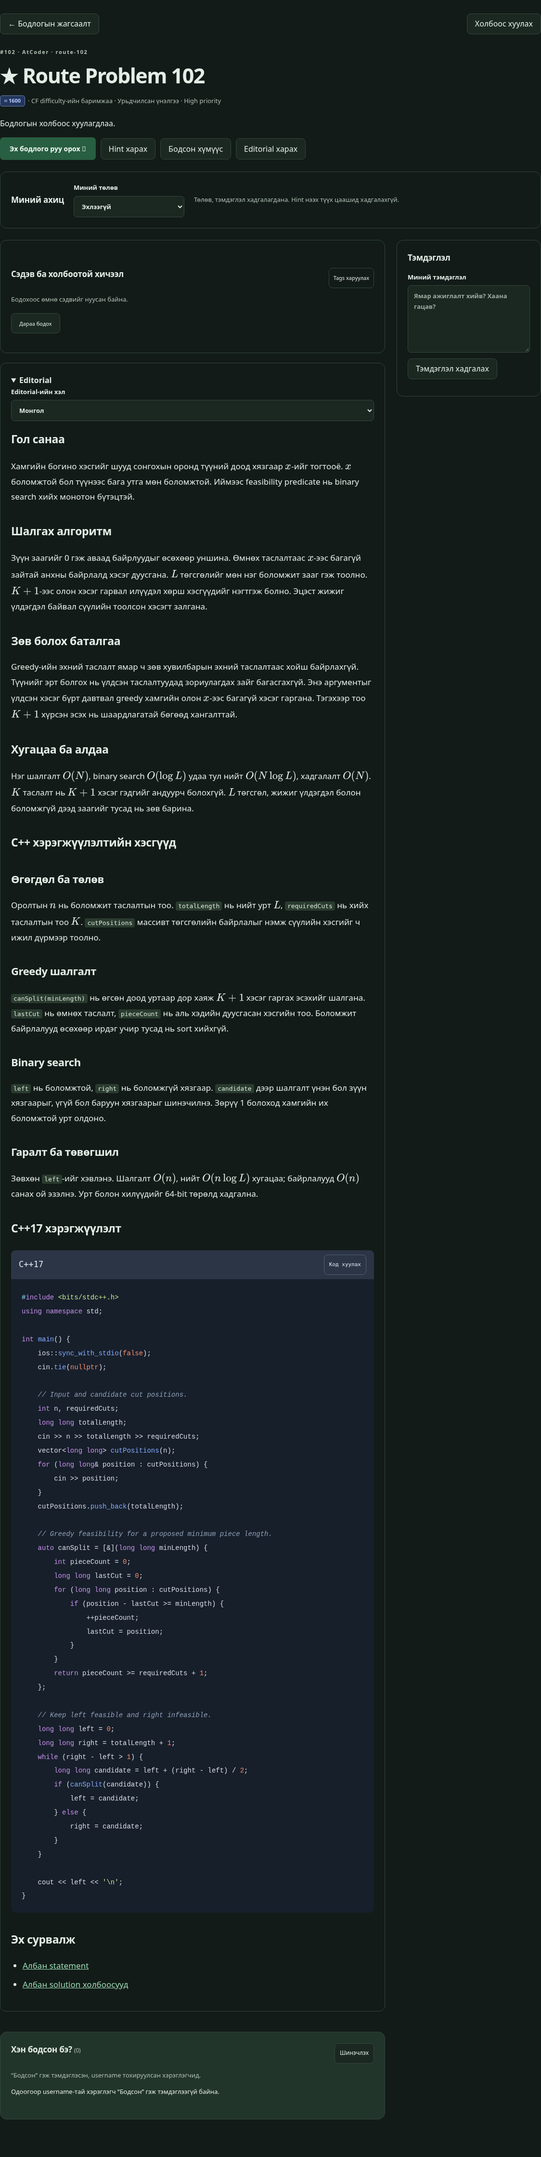
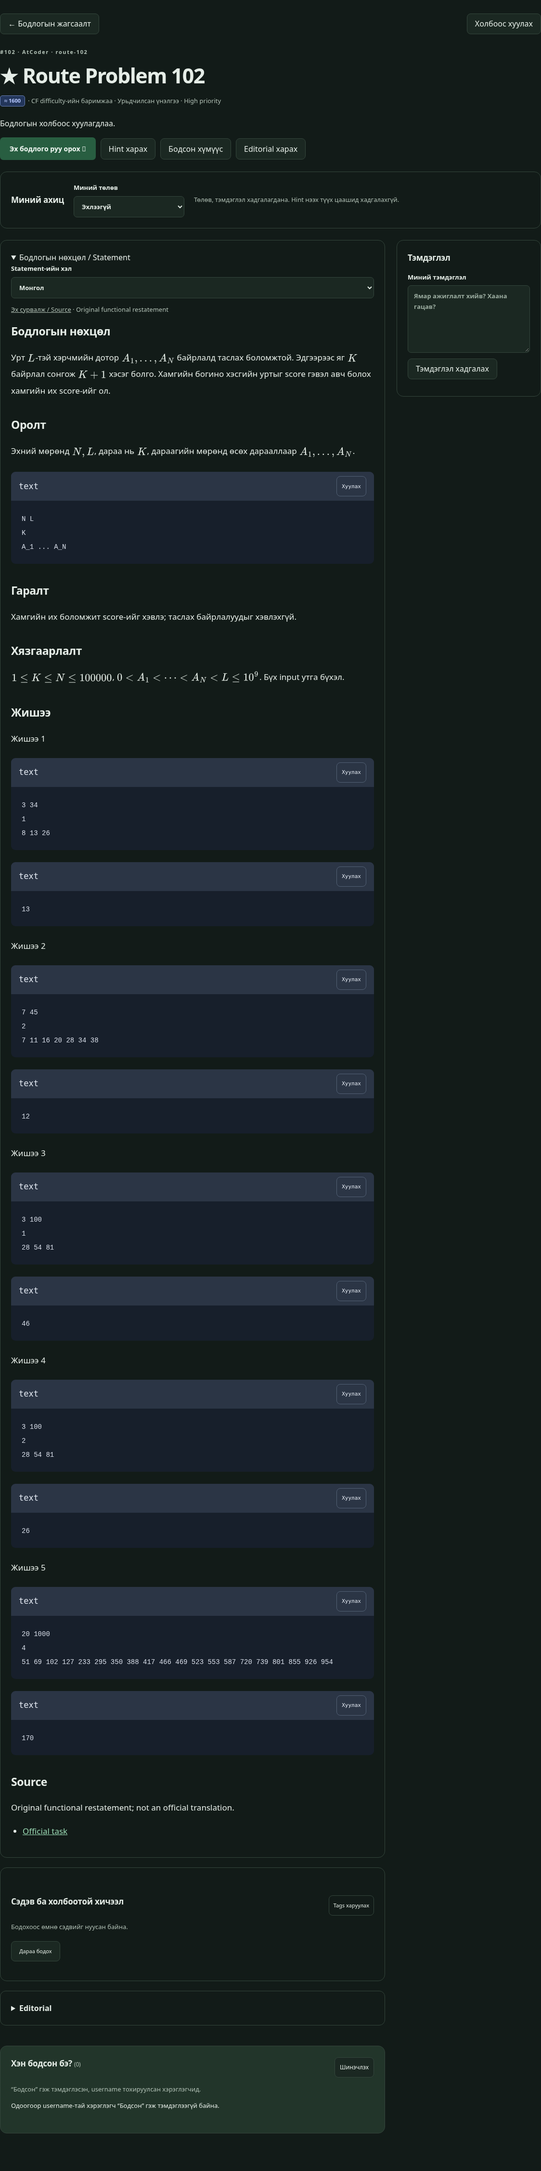
Keep package 4 frontend compatible with installed backend before rollout

diff --git a/admin.js b/admin.js
@@ -1,3 +1,4 @@
+import {problemBackend,prepareProblemSave} from './problem-backend.js?v=49';
 import {assertProblemStatementReady} from './problem-statement-policy.js?v=48';
 import {setupProblemStatementEditor} from './problem-statement.js?v=48';
 import {problemUrlIdentity} from './problem-url.js?v=48';
@@ -9,13 +10,13 @@ import {setAdminRoute} from './navigation.js?v=48';
 import {rpc,accountError} from './accounts.js?v=48';
 import {validateProblem,parseProblemImport,validateSource,getSources} from './problem-store.js?v=48';
 export function setupAdmin(ctx) {
- const $=id=>document.getElementById(id);let rows=[],selected=null,admin=false,accountId=null,token=0,busy=false,pendingImport=[],grantTarget=null,fileToken=0; 
+ const capabilities=problemBackend();const $=id=>document.getElementById(id);let rows=[],selected=null,admin=false,accountId=null,token=0,busy=false,pendingImport=[],grantTarget=null,fileToken=0;
  const provenance=document.createElement('fieldset');provenance.className='admin-rating-provenance';const legend=document.createElement('legend');legend.textContent='Rating-ийн эх сурвалж ба үндэслэл';provenance.append(legend);for(const[id,label,type,max]of[['admin-rating-basis','Алгоритм, ажиглалт, хэрэгжүүлэлтийн хүндрэлээр тайлбарласан үндэслэл','text',500],['admin-rating-source','Тулгасан эх сурвалжийн HTTPS URL','url',500],['admin-rating-date','Тулгасан / баримжаалсан огноо','date',10],['admin-rating-confidence','Баримжааны итгэлцэл (rough гэх мэт)','text',500]]){const l=document.createElement('label');l.textContent=label;const input=document.createElement('input');input.id=id;input.type=type;input.maxLength=max;l.append(input);provenance.append(l);}$('admin-rating-kind').closest('label').after(provenance);
- const editorialRoot=document.createElement('div');editorialRoot.id='admin-editorial-document';$('admin-editorial').closest('label').after(editorialRoot);const editorialEditor=setupProblemEditorialEditor(editorialRoot,{locked:()=>busy||!admin,user:ctx.user,client:ctx.client,problems:()=>rows,progress:()=>ctx.progress?.()||{},requireBackend:()=>requireEditorialBackend()});
- const statementRoot=document.createElement('div');statementRoot.id='admin-statement-document';editorialRoot.before(statementRoot);const statementEditor=setupProblemStatementEditor(statementRoot,{locked:()=>busy||!admin,user:ctx.user,client:ctx.client,problems:()=>rows,progress:()=>ctx.progress?.()||{},requireBackend:()=>requireStatementBackend()});
- async function requireStatementBackend(){try{await rpc(ctx.client(),'get_problem_statement',{p_problem_id:selected?.id||'__package4_capability_probe__'});}catch{throw Error('Statement backend шинэчлэл идэвхжээгүй. Өөрчлөлт хадгалагдаагүй.');}}
- async function requireEditorialBackend(){try{await rpc(ctx.client(),'get_problem_editorial',{p_problem_id:selected?.id||'__package4_capability_probe__'});}catch{throw Error('Багц 4-ийн бодлогын backend шинэчлэл идэвхжээгүй байна. Засвар хадгалагдаагүй; админдаа мэдэгдээрэй.');}}
- function setBusy(value){busy=value;for(const el of $('admin-form').querySelectorAll('input,select,textarea,button'))el.disabled=value;$('admin-choose').disabled=value;$('admin-new').disabled=value;$('admin-reload').disabled=value;for(const id of ['admin-source-name','admin-source-add','admin-import-file','admin-grant-username','admin-grant-find','admin-grant-submit'])$(id).disabled=value;$('admin-import-submit').disabled=value||!pendingImport.length;}
+ const editorialRoot=document.createElement('div');editorialRoot.id='admin-editorial-document';$('admin-editorial').closest('label').after(editorialRoot);const editorialEditor=setupProblemEditorialEditor(editorialRoot,{locked:()=>busy||!admin||!capabilities.editorial,user:ctx.user,client:ctx.client,problems:()=>rows,progress:()=>ctx.progress?.()||{},requireBackend:()=>requireEditorialBackend()});
+ const statementRoot=document.createElement('div');statementRoot.id='admin-statement-document';editorialRoot.before(statementRoot);const statementEditor=setupProblemStatementEditor(statementRoot,{locked:()=>busy||!admin||!capabilities.statement,user:ctx.user,client:ctx.client,problems:()=>rows,progress:()=>ctx.progress?.()||{},requireBackend:()=>requireStatementBackend()});
+ async function requireStatementBackend(){if(!capabilities.statement)throw Error('Statement backend шинэчлэл идэвхжээгүй.');try{await rpc(ctx.client(),'get_problem_statement',{p_problem_id:selected?.id||'__package4_capability_probe__'});}catch{throw Error('Statement backend шинэчлэл идэвхжээгүй. Өөрчлөлт хадгалагдаагүй.');}}
+ async function requireEditorialBackend(){if(!capabilities.editorial)throw Error('Editorial backend шинэчлэл идэвхжээгүй.');try{await rpc(ctx.client(),'get_problem_editorial',{p_problem_id:selected?.id||'__package4_capability_probe__'});}catch{throw Error('Багц 4-ийн бодлогын backend шинэчлэл идэвхжээгүй байна. Засвар хадгалагдаагүй; админдаа мэдэгдээрэй.');}}
+ function setBusy(value){busy=value;for(const el of $('admin-form').querySelectorAll('input,select,textarea,button'))el.disabled=value;$('admin-choose').disabled=value;$('admin-new').disabled=value;$('admin-reload').disabled=value;for(const id of ['admin-source-name','admin-source-add','admin-import-file','admin-grant-username','admin-grant-find','admin-grant-submit'])$(id).disabled=value;$('admin-import-submit').disabled=value||!pendingImport.length||!capabilities.bulkImport;applyCapabilities();}
  function refreshSources(chosen=$('admin-source').value){$('admin-source').replaceChildren();for(const name of getSources(rows,[...ctx.sources(),...(chosen?[chosen]:[])])){const option=document.createElement('option');option.value=name;option.textContent=name;$('admin-source').append(option);}$('admin-source').value=[...$('admin-source').options].some(o=>o.value===chosen)?chosen:'Codeforces';}
  function renderChoices(){const query=$('admin-search').value.trim().toLowerCase();$('admin-choose').replaceChildren();const option=(value,label)=>{const n=document.createElement('option');n.value=value;n.textContent=label;$('admin-choose').append(n);};option('','Шинэ бодлого нэмэх');
   for(const p of rows.filter(p=>(!p.archived||$('admin-show-archived').checked||p.number===selected?.number)&&([p.title,p.number,'#'+p.number,'#'+String(p.number).padStart(3,'0'),...p.tags].join(' ').toLowerCase().includes(query)||p.number===selected?.number)))option(String(p.number),'#'+p.number+' · '+p.title+(p.archived?' · Хассан':''));$('admin-choose').value=selected?String(selected.number):'';
@@ -23,7 +24,7 @@ export function setupAdmin(ctx) {
  function edit(p){if((editorialEditor.dirty()||statementEditor.dirty())&&!confirm('Хадгалаагүй statement/editorial засварыг орхих уу?')){renderChoices();return false;}selected=p;$('admin-form').reset();$('admin-title').value=p?.title||'';refreshSources(p?.source||'Codeforces');$('admin-ref').value=p?.ref||'';$('admin-url').value=p?.url||'';$('admin-rating').value=p?.rating||1400;$('admin-rating-kind').value=p?.ratingKind||'official';$('admin-rating-basis').value=p?.ratingBasis||'';$('admin-rating-source').value=p?.ratingSource||'';$('admin-rating-confidence').value=p?.ratingConfidence||'rough';$('admin-rating-date').value=p?(p.ratingKind==='estimated'?p.ratingEstimatedAt:p.ratingVerifiedAt)||'':new Date().toISOString().slice(0,10);$('admin-level').value=p?.level||'Practice';$('admin-priority').value=priorityLevel(p);$('admin-priority-reason').value=p?.priorityReason||'';$('admin-tags').value=p?.tags?.join(', ')||'';$('admin-lesson').value=p?.lesson||'';$('admin-editorial').value=p?.editorialUrl||'';
   for(let i=0;i<3;i++){ $('admin-hint-mn-'+i).value=p?.hints?.[i]||'';$('admin-hint-en-'+i).value=p?.hintsEn?.[i]||'';}
   $('admin-problem-id').textContent=p?'Бодлогын ID: #'+p.number+' · '+(p.archived?'Хассан':'Идэвхтэй'):'Шинэ бодлогын ID хадгалах үед автоматаар олгогдоно.';
-  $('admin-archive').hidden=!p;$('admin-archive').textContent=p?.archived?'Бодлогыг сэргээх':'Бодлогыг хасах';$('admin-save').textContent=p?'Өөрчлөлт хадгалах':'Бодлого нэмэх';renderChoices();void editorialEditor.edit(p);void statementEditor.edit(p);
+  $('admin-archive').hidden=!p;$('admin-archive').textContent=p?.archived?'Бодлогыг сэргээх':'Бодлогыг хасах';$('admin-save').textContent=p?'Өөрчлөлт хадгалах':'Бодлого нэмэх';renderChoices();if(capabilities.editorial)void editorialEditor.edit(p);if(capabilities.statement)void statementEditor.edit(p);applyCapabilities();
  }
  async function load(){if(!admin||busy)return;const request=++token,uid=ctx.user()?.id;$('admin-message').textContent='Бодлогуудыг ачаалж байна…';
   try{const list=await rpc(ctx.client(),'get_admin_catalog');if(request!==token||uid!==ctx.user()?.id)return;rows=list||[];const next=selected?rows.find(p=>p.number===selected.number)||null:null;edit(next);$('admin-message').textContent=rows.length+' бодлого · Хассан бодлогыг сэргээж болно.';}
@@ -33,9 +34,9 @@ export function setupAdmin(ctx) {
   try{const allowed=await rpc(ctx.client(),'is_admin');if(request!==token||uid!==ctx.user()?.id)return;admin=allowed===true;setAdminRoute(admin);if(admin){edit(null);void load();void loadAdmins();}}
   catch{ /* No client-side email or metadata fallback can grant admin rights. */ }
  }
- function input(){const editorial=editorialEditor.collect(),statement=statementEditor.collect();const payload=validateProblem({...selected,ratingBasis:$('admin-rating-basis').value.trim(),...($('admin-rating-source').value.trim()?{ratingSource:$('admin-rating-source').value.trim()}:{}),...($('admin-rating-kind').value==='estimated'?{ratingConfidence:$('admin-rating-confidence').value.trim(),ratingEstimatedAt:$('admin-rating-date').value}:{ratingVerifiedAt:$('admin-rating-date').value}),title:$('admin-title').value,source:$('admin-source').value,ref:$('admin-ref').value,url:$('admin-url').value.trim(),rating:$('admin-rating').value,ratingKind:$('admin-rating-kind').value,level:$('admin-level').value,priorityLevel:$('admin-priority').value,priority:$('admin-priority').value==='high',priorityReason:$('admin-priority-reason').value.trim(),tags:$('admin-tags').value.split(','),hints:Array.from({length:3},(_,i)=>$('admin-hint-mn-'+i).value.trim()).filter((v,_,all)=>all.some(Boolean)),hintsEn:Array.from({length:3},(_,i)=>$('admin-hint-en-'+i).value.trim()).filter((v,_,all)=>all.some(Boolean)),...(editorial!==undefined?{editorial}:{}),...(statement!==undefined?{statement,...(statement?{statementProvenance:statementEditor.provenance()}:{} )}:{}),lesson:$('admin-lesson').value,editorialUrl:$('admin-editorial').value.trim()});if(!selected){assertNewProblemRatingReady(payload);assertProblemStatementReady(payload);}if(!selected||priorityLevel(payload)==='high')assertProblemContentReady(payload);return payload;}
+ function input(){const editorial=capabilities.editorial?editorialEditor.collect():undefined,statement=capabilities.statement?statementEditor.collect():undefined;const payload=validateProblem({...selected,ratingBasis:$('admin-rating-basis').value.trim(),...($('admin-rating-source').value.trim()?{ratingSource:$('admin-rating-source').value.trim()}:{}),...($('admin-rating-kind').value==='estimated'?{ratingConfidence:$('admin-rating-confidence').value.trim(),ratingEstimatedAt:$('admin-rating-date').value}:{ratingVerifiedAt:$('admin-rating-date').value}),title:$('admin-title').value,source:$('admin-source').value,ref:$('admin-ref').value,url:$('admin-url').value.trim(),rating:$('admin-rating').value,ratingKind:$('admin-rating-kind').value,level:$('admin-level').value,priorityLevel:$('admin-priority').value,priority:$('admin-priority').value==='high',priorityReason:$('admin-priority-reason').value.trim(),tags:$('admin-tags').value.split(','),hints:Array.from({length:3},(_,i)=>$('admin-hint-mn-'+i).value.trim()).filter((v,_,all)=>all.some(Boolean)),hintsEn:Array.from({length:3},(_,i)=>$('admin-hint-en-'+i).value.trim()).filter((v,_,all)=>all.some(Boolean)),...(editorial!==undefined?{editorial}:{}),...(statement!==undefined?{statement,...(statement?{statementProvenance:statementEditor.provenance()}:{} )}:{}),lesson:$('admin-lesson').value,editorialUrl:$('admin-editorial').value.trim()});if(!selected){assertNewProblemRatingReady(payload);assertProblemStatementReady(payload);}if(!selected||priorityLevel(payload)==='high')assertProblemContentReady(payload);return prepareProblemSave(payload,selected,capabilities);}
  $('admin-form').onsubmit=async event=>{event.preventDefault();if(!admin||busy||!$('admin-form').reportValidity())return;const uid=ctx.user()?.id;let payload;try{payload=input();}catch(e){$('admin-message').textContent=e.message;return;}setBusy(true);$('admin-message').textContent='Хадгалж байна…';
-  try{await requireEditorialBackend();await requireStatementBackend();if(uid!==ctx.user()?.id)return;const saved=await rpc(ctx.client(),'admin_save_problem',{p_body:payload,p_number:selected?.number||null,p_revision:selected?.revision||null});if(uid!==ctx.user()?.id)return;editorialEditor.markSaved();statementEditor.markSaved();selected=saved;await ctx.refreshCatalog();setBusy(false);await load();$('admin-message').textContent='#'+saved.number+' хадгалагдлаа.';}
+  try{if(capabilities.editorial)await requireEditorialBackend();if(capabilities.statement)await requireStatementBackend();if(uid!==ctx.user()?.id)return;const saved=await rpc(ctx.client(),'admin_save_problem',{p_body:payload,p_number:selected?.number||null,p_revision:selected?.revision||null});if(uid!==ctx.user()?.id)return;editorialEditor.markSaved();statementEditor.markSaved();selected=saved;await ctx.refreshCatalog();setBusy(false);await load();$('admin-message').textContent='#'+saved.number+' хадгалагдлаа.';}
   catch(e){if(uid===ctx.user()?.id)$('admin-message').textContent=accountError(e);}finally{setBusy(false);}
  };
  $('admin-archive').onclick=async()=>{if(!selected||!admin||busy)return;const p=selected,wasArchived=p.archived,uid=ctx.user()?.id;if(!wasArchived&&!window.confirm('#'+p.number+' · '+p.title+' бодлогыг жагсаалтаас хасах уу? Сэргээж болно; progress хадгалагдана.'))return;setBusy(true);
@@ -43,6 +44,16 @@ export function setupAdmin(ctx) {
   catch(e){if(uid===ctx.user()?.id)$('admin-message').textContent=accountError(e);}finally{setBusy(false);}
  };
  const reasonLabel=document.createElement('label');reasonLabel.textContent='Priority сонголтын үндэслэл';const reason=document.createElement('textarea');reason.id='admin-priority-reason';reason.maxLength=1000;reason.rows=2;reasonLabel.append(reason);$('admin-priority').closest('label').after(reasonLabel);
+ const compatibilityMessage=document.createElement('p');compatibilityMessage.className='muted';compatibilityMessage.id='admin-backend-status';$('admin-form').before(compatibilityMessage);
+ function applyCapabilities(){
+  editorialRoot.hidden=!capabilities.editorial;statementRoot.hidden=!capabilities.statement;provenance.hidden=!capabilities.priority;
+  for(const id of ['admin-priority','admin-priority-reason'])$(id).disabled=busy||!capabilities.priority;
+  $('admin-new').disabled=busy||!capabilities.priority;$('admin-import-file').disabled=busy||!capabilities.bulkImport;
+  if(!capabilities.bulkImport)$('admin-import-submit').disabled=true;
+  compatibilityMessage.hidden=capabilities.statement;
+  compatibilityMessage.textContent=!capabilities.priority?'Одоогийн backend: байгаа бодлогын үндсэн мэдээллийг засаж болно. Шинэ priority, rich content болон batch нэмэлт нь backend шинэчлэлийн дараа идэвхжинэ.':'Rich content / batch нэмэлт нь тохирох backend шинэчлэлийн дараа идэвхжинэ.';
+ }
+ applyCapabilities();
  const chooseProblem=document.createElement('button');chooseProblem.type='button';chooseProblem.textContent='Засах бодлого сонгох…';$('admin-choose').closest('label').hidden=true;$('admin-search').closest('label').hidden=true;$('admin-choose').closest('.admin-picker').append(chooseProblem);
  chooseProblem.onclick=()=>{if(!admin||busy)return;const actor=ctx.user()?.id;openProblemSelection({problems:()=>rows,progress:()=>ctx.progress?.()||{},multiple:false,includeArchived:$('admin-show-archived').checked,valid:()=>admin&&!busy&&actor===ctx.user()?.id,onSelect:items=>{if(items[0])edit(items[0]);}});};
  $('admin-choose').onchange=()=>{edit(rows.find(p=>p.number===Number($('admin-choose').value))||null);$('admin-message').textContent='';};$('admin-new').onclick=()=>{edit(null);$('admin-message').textContent='';};$('admin-reload').onclick=()=>void load();$('admin-search').addEventListener('input',renderChoices);$('admin-show-archived').onchange=renderChoices;
@@ -51,11 +62,11 @@ export function setupAdmin(ctx) {
  $('admin-source-form').onsubmit=async event=>{event.preventDefault();if(!admin||busy||!$('admin-source-form').reportValidity())return;const uid=ctx.user()?.id;let name;try{name=validateSource($('admin-source-name').value);}catch(e){$('admin-source-message').textContent=e.message;return;}setBusy(true);$('admin-source-message').textContent='Хадгалж байна…';try{const saved=await rpc(ctx.client(),'admin_add_source',{p_name:name});if(uid!==ctx.user()?.id)return;await ctx.refreshCatalog();refreshSources(saved);$('admin-source').dispatchEvent(new Event('change'));$('admin-source-name').value='';$('admin-source-message').textContent=saved+' source хадгалагдлаа.';}catch(e){if(uid===ctx.user()?.id)$('admin-source-message').textContent=accountError(e);}finally{setBusy(false);}};
 
  async function loadAdmins(){const uid=ctx.user()?.id;try{const list=await rpc(ctx.client(),'admin_list');if(uid!==ctx.user()?.id||!admin)return;$('admin-list').replaceChildren();for(const p of list||[]){const li=document.createElement('li');li.textContent='@'+p.username+(p.full_name?' · '+p.full_name:'')+(p.is_primary?' · Үндсэн админ':'');$('admin-list').append(li);}}catch(e){if(uid===ctx.user()?.id)$('admin-grant-message').textContent=accountError(e);}}
- $('admin-import-file').onchange=async()=>{const request=++fileToken,uid=ctx.user()?.id;pendingImport=[];$('admin-import-submit').disabled=true;$('admin-import-preview').replaceChildren();$('admin-import-message').textContent='';const file=$('admin-import-file').files[0];if(!file||!admin)return;
+ $('admin-import-file').onchange=async()=>{const request=++fileToken,uid=ctx.user()?.id;pendingImport=[];$('admin-import-submit').disabled=true;$('admin-import-preview').replaceChildren();$('admin-import-message').textContent='';const file=$('admin-import-file').files[0];if(!file||!admin||!capabilities.bulkImport)return;
   try{if(file.size>2097152)throw new Error('JSON файл 2 MB хүртэл байна.');let document;try{document=JSON.parse((await file.text()).replace(/^\uFEFF/,''));}catch{throw new Error('JSON файлын бичлэг буруу байна.');}if(request!==fileToken||uid!==ctx.user()?.id)return;const list=parseProblemImport(document);for(const p of list){assertNewProblemRatingReady(p);assertProblemContentReady(p);assertProblemStatementReady(p);}for(const p of list)if(rows.some(r=>problemUrlIdentity(r.url)===problemUrlIdentity(p.url)||(r.source.toLowerCase()===p.source.toLowerCase()&&r.ref.toLowerCase()===p.ref.toLowerCase())))throw new Error(p.title+': энэ бодлого санд байна (хассан бодлого ч багтана).');pendingImport=list;for(const p of list){const li=window.document.createElement('li');li.textContent=p.title+' · '+p.source+' '+p.ref+' · '+p.rating;$('admin-import-preview').append(li);}$('admin-import-message').textContent=list.length+' бодлого бэлэн. Нэмэх товчийг дарж хадгална.';$('admin-import-submit').disabled=busy;}
   catch(e){if(request===fileToken&&uid===ctx.user()?.id)$('admin-import-message').textContent=e.message;}
  };
- $('admin-import-submit').onclick=async()=>{if(!admin||busy||!pendingImport.length)return;const uid=ctx.user()?.id,payload=pendingImport;setBusy(true);$('admin-import-message').textContent='Нэмж байна…';
+ $('admin-import-submit').onclick=async()=>{if(!admin||busy||!pendingImport.length||!capabilities.bulkImport)return;const uid=ctx.user()?.id,payload=pendingImport;setBusy(true);$('admin-import-message').textContent='Нэмж байна…';
   try{await requireEditorialBackend();await requireStatementBackend();if(uid!==ctx.user()?.id)return;const saved=await rpc(ctx.client(),'admin_import_problems',{p_problems:payload});if(uid!==ctx.user()?.id)return;pendingImport=[];$('admin-import-file').value='';$('admin-import-preview').replaceChildren();await ctx.refreshCatalog();setBusy(false);await load();$('admin-import-message').textContent=saved.length+' бодлого нэмэгдлээ. ID: '+saved.map(p=>'#'+p.number).join(', ');}
   catch(e){if(uid===ctx.user()?.id)$('admin-import-message').textContent=accountError(e);}finally{setBusy(false);}
  };

diff --git a/app.js b/app.js
@@ -1,6 +1,6 @@
 import {createLearningStore} from './learning-store.js?v=23';
-import {setupProblemStatement} from './problem-statement.js?v=48';
-import {setupProblemEditorial} from './problem-editorial.js?v=48';
+import {setupProblemStatement} from './problem-statement.js?v=49';
+import {setupProblemEditorial} from './problem-editorial.js?v=49';
 import {appendHintText} from './hint-content.js?v=48';
 import {canonicalProblemUrl} from './problem-url.js?v=48';
 import {priorityLevel,priorityLabel,isHighPriority,ratingClass} from './priority.js?v=48';
@@ -10,7 +10,7 @@ import {setupGroups} from './groups.js?v=20';
 let tutorialUI, learningUI=null,hintRenderTurn=0,problemEditorialUI,problemStatementUI,learningProgressStore;
 import {CURRENT_EMPTY,cleanProgress,parseCurrentBackup,progressRows} from './progress.js?v=48';
 import {getSolvers} from './community.js?v=6';
-import {setupAdmin} from './admin.js?v=48';
+import {setupAdmin} from './admin.js?v=49';
 import {parseCatalog,hintTexts,getSources} from './problem-store.js?v=48';
 import {rpc} from './accounts.js?v=48';
 import {ownProfile,saveOwnProfile,avatarUrl,accountError} from './accounts.js?v=48';
@@ -120,7 +120,7 @@ function syncProblemRoute(){
 }
 function showProblemPage(p) {$('problem-share').disabled=false;$('problem-back').textContent=history.state?.erdeneProblemOrigin?.hash&&history.state.erdeneProblemOrigin.hash!=='#library'?'← Буцах':'← Бодлогын жагсаалт';const changed=selectedProblem?.id!==p.id;selectedProblem=p;if(changed){detailTagsShown=false;resetHintView();}$('problem-detail-body').hidden=false;$('problem-route-state').textContent='';$('problem-retry').hidden=true;$('detail-title').textContent=(isHighPriority(p)?'★ ':'')+p.title;$('detail-source').textContent='#'+p.number+' · '+p.source+' · '+p.ref;$('detail-note').textContent=(p.ratingKind==='unrated'?'Үнэлгээгүй':p.ratingKind==='official'?'CF албан rating':'CF difficulty-ийн баримжаа'+(p.ratingConfidence==='rough'?' · Урьдчилсан үнэлгээ':''))+(p.level==='Interactive'?' · Interactive':'')+(p.source==='EGOI'?' · Full task; subtask-аас эхэл':'')+' · '+priorityLabel(p);const detailRating=el('span','rating '+ratingClass(p),ratingLabel(p));$('detail-note').prepend(detailRating,document.createTextNode(' · '));$('problem-link').href=p.url;if(changed)$('notes').value=entry(p.id).notes;$('detail-feedback').textContent='';document.title=p.title+' — Erdene Club';renderDetail();if(changed){void loadSolvers();requestAnimationFrame(()=>$('detail-title').focus({preventScroll:true}));}}
 function renderDetail() {
-  if(!selectedProblem)return;problemEditorialUI?.render(selectedProblem);problemStatementUI?.render(selectedProblem);const p=selectedProblem,e=entry(p.id),tagsVisible=$('show-tags').checked||detailTagsShown||e.status==='solved',learningLinks=$('detail-learning-links');learningLinks.replaceChildren();if(tagsVisible){for(const t of learningUI?.linksForProblem(p)||[]){const a=el('a','',(t.primary?'Үндсэн · ':'')+t.title);a.href='#tutorial/'+t.id;learningLinks.append(a);}}learningUI?.renderProblemLinks(p,learningLinks);const hintCount=hintTexts(p,'mn').length;$('hint-list').closest('.hints').hidden=priorityLevel(p)==='low'||!hintPanelOpen;$('problem-hints-button').hidden=priorityLevel(p)==='low'||!hintCount;$('problem-hints-button').setAttribute('aria-expanded',String(hintPanelOpen));$('problem-editorial-button').hidden=priorityLevel(p)!=='high'&&!p.hasEditorial&&!p.editorial;$('problem-admin-edit').hidden=!problemAdminAllowed;$('hint-language').closest('label').hidden=!hintCount;$('problem-status').value=e.status;$('problem-status').disabled=loading;$('notes').disabled=loading;$('save-note').disabled=loading;const hintTurn=++hintRenderTurn;try{window.MathJax?.typesetClear?.([$ ('hint-list')]);}catch{}const hintBody=el('div','hint-render-body');$('hint-list').replaceChildren(hintBody);
+  if(!selectedProblem)return;problemEditorialUI?.render(selectedProblem);problemStatementUI?.render(selectedProblem);const p=selectedProblem,e=entry(p.id),tagsVisible=$('show-tags').checked||detailTagsShown||e.status==='solved',learningLinks=$('detail-learning-links');learningLinks.replaceChildren();if(tagsVisible){for(const t of learningUI?.linksForProblem(p)||[]){const a=el('a','',(t.primary?'Үндсэн · ':'')+t.title);a.href='#tutorial/'+t.id;learningLinks.append(a);}}learningUI?.renderProblemLinks(p,learningLinks);const hintCount=hintTexts(p,'mn').length;$('hint-list').closest('.hints').hidden=priorityLevel(p)==='low'||!hintPanelOpen;$('problem-hints-button').hidden=priorityLevel(p)==='low'||!hintCount;$('problem-hints-button').setAttribute('aria-expanded',String(hintPanelOpen));$('problem-editorial-button').hidden=!p.hasEditorial&&!p.editorial;$('problem-admin-edit').hidden=!problemAdminAllowed;$('hint-language').closest('label').hidden=!hintCount;$('problem-status').value=e.status;$('problem-status').disabled=loading;$('notes').disabled=loading;$('save-note').disabled=loading;const hintTurn=++hintRenderTurn;try{window.MathJax?.typesetClear?.([$ ('hint-list')]);}catch{}const hintBody=el('div','hint-render-body');$('hint-list').replaceChildren(hintBody);
   hintTexts(p,hintLanguage).slice(0,revealedHintCount).forEach((hint,i)=>{const h=el('div','hint');const text=el('span');appendHintText(text,hint);h.append(el('b','','HINT '+(i+1)),text);hintBody.append(h);});
   const hintsVisible=!hiddenHints.has(p.id);
   $('hint-list').hidden=!hintsVisible;

diff --git a/index.html b/index.html
@@ -79,6 +79,6 @@
   <dialog id="public-profile" class="wide-dialog"><div class="dialog-head"><span class="eyebrow">PROFILE</span><button data-close="public-profile" aria-label="Хаах">✕</button></div><h2 id="public-profile-name">Profile</h2><div id="public-profile-body"></div><div id="public-profile-actions" class="friend-actions"></div><p id="public-profile-message" role="status" aria-live="polite" class="muted"></p><button id="refresh-public-profile" type="button">Шинэчлэх</button><div class="profile-problems"><section><h3>Бодсон бодлогууд</h3><ul id="public-solved"></ul></section><section><h3>Бодож байгаа бодлогууд</h3><ul id="public-trying"></ul></section></div></dialog>
   <dialog id="recovery"><div class="dialog-head"><span class="eyebrow">PASSWORD СЭРГЭЭХ</span><button data-close="recovery" aria-label="Хаах">✕</button></div><h2>Account-даа буцаж оръё.</h2><p id="recovery-message" role="status" aria-live="polite" class="muted"></p><form id="recovery-email-form"><label>Email<input id="recovery-email" type="email" autocomplete="email" required></label><button id="send-recovery-link" class="primary" type="submit">Баталгаажуулах холбоос авах</button></form><div id="recovery-link-panel" hidden><p>Баталгаажуулах email: <span id="recovery-destination"></span></p><p>Email дээрх холбоос дээр дарна уу. Холбоос нээгдсэний дараа шинэ нууц үгээ оруулна.</p><div class="auth-actions"><button id="resend-recovery-link" type="button">Холбоос дахин авах</button><button id="change-recovery-email" type="button">Email солих</button></div></div><form id="recovery-password-form" hidden><label>Шинэ нууц үг<input id="recovery-password" type="password" autocomplete="new-password" minlength="8" required></label><label>Нууц үг давтах<input id="recovery-confirm" type="password" autocomplete="new-password" minlength="8" required></label><button id="save-recovery-password" class="primary" type="submit">Нууц үг шинэчлэх</button></form></dialog>
   <dialog id="tutorial-preview" class="wide-dialog"><div class="dialog-head"><strong>Урьдчилан харах</strong><button data-close="tutorial-preview" aria-label="Хаах">✕</button></div><article id="tutorial-preview-content" class="tutorial-content"></article></dialog>
-  <script src="vendor/highlight/highlight.min.js"></script><script type="module" src="navigation.js?v=48"></script><script src="config.js"></script><script type="module" src="app.js?v=48"></script>
+  <script src="vendor/highlight/highlight.min.js"></script><script type="module" src="navigation.js?v=48"></script><script src="config.js"></script><script type="module" src="app.js?v=49"></script>
 </body>
 </html>

diff --git a/problem-backend.js b/problem-backend.js
@@ -1,0 +1,18 @@
+// Public deployment capability declaration, not an authorization source.
+// Keep 31 until separately approved migrations are installed and verified.
+export function problemBackend(config=globalThis.window?.THINK_CP_CONFIG||{}) {
+ const version=[31,32,33,34].includes(config.problemBackendVersion)?config.problemBackendVersion:31;
+ return Object.freeze({version,priority:version>=32,editorial:version>=33,statement:version>=34,bulkImport:version>=34});
+}
+export function prepareProblemSave(payload,existing,capabilities=problemBackend()) {
+ const p=structuredClone(payload);
+ if(!capabilities.priority){
+  if(!existing)throw Error('Шинэ бодлого нэмэх backend шинэчлэл хараахан идэвхжээгүй.');
+  if(['priorityLevel','priorityReason','ratingSource','ratingVerifiedAt'].some(k=>Object.hasOwn(existing,k)))throw Error('Энэ бодлогын metadata-г алдахгүйн тулд backend шинэчлэл шаардлагатай.');
+  p.priority=existing.priority===true;
+  for(const field of ['priorityLevel','priorityReason','ratingSource','ratingVerifiedAt'])delete p[field];
+ }
+ if(!capabilities.editorial&&(p.editorial!=null||existing?.hasEditorial))throw Error('Editorial backend шинэчлэл шаардлагатай.');
+ if(!capabilities.statement&&(p.statement!=null||existing?.hasStatement))throw Error('Statement backend шинэчлэл шаардлагатай.');
+ return p;
+}

diff --git a/problem-statement.js b/problem-statement.js
@@ -13,7 +13,7 @@ export function setupProblemStatement(root,ctx){
  function clear(){turn++;key=null;clearMath(root);root.replaceChildren();root.hidden=true;}
  function render(problem){
   const next=[problem.id,problem.revision,problem.priorityLevel,!!problem.hasStatement,!!problem.statement].join('|');if(next===key)return;
-  clear();key=next;
+  clear();key=next;if(!problem.hasStatement&&!problem.statement)return;
   root.hidden=false;const generation=turn,details=node('details'),summary=node('summary','Бодлогын нөхцөл / Statement'),message=node('p','Бодлогын нөхцөл, оролт/гаралт, хязгаарлалт, жишээ.','muted'),article=node('article',undefined,'tutorial-content'),language=node('select'),label=node('label','Statement-ийн хэл');
   for(const [value,text]of [['mn','Монгол'],['en','English']]){const o=node('option',text);o.value=value;language.append(o);}label.append(language);label.hidden=true;details.append(summary,label,message,article);root.append(details);
   let doc=null,pending=false;const attribution=node('p',undefined,'muted');details.insertBefore(attribution,article);const valid=()=>turn===generation&&details.isConnected&&ctx.active(problem.id);

diff --git a/problem-editorial.js b/problem-editorial.js
@@ -14,7 +14,7 @@ export function setupProblemEditorial(root,ctx){
  function clear(){turn++;key=null;clearMath(root);root.replaceChildren();root.hidden=true;}
  function render(problem){
   const next=[problem.id,problem.revision,problem.priorityLevel,!!problem.hasEditorial,!!problem.editorial].join('|');if(next===key)return;
-  clear();key=next;if(priorityLevel(problem)!=='high'&&!problem.hasEditorial&&!problem.editorial)return;
+  clear();key=next;if(!problem.hasEditorial&&!problem.editorial)return;
   root.hidden=false;const generation=turn,details=node('details'),summary=node('summary','Editorial'),message=node('p','Тайлбарыг нээж унших боломжтой.','muted'),article=node('article',undefined,'tutorial-content'),language=node('select'),label=node('label','Editorial-ийн хэл');
   for(const [value,text]of [['mn','Монгол'],['en','English']]){const o=node('option',text);o.value=value;language.append(o);}label.append(language);label.hidden=true;details.append(summary,label,message,article);root.append(details);
   let doc=null,pending=false;const valid=()=>turn===generation&&details.isConnected&&ctx.active(problem.id);

diff --git a/tests/browser/backend-compatibility.py b/tests/browser/backend-compatibility.py
@@ -1,0 +1,23 @@
+import http.server,threading,functools,json
+from pathlib import Path
+from playwright.sync_api import sync_playwright
+ROOT=Path(__file__).resolve().parents[2]
+class Quiet(http.server.SimpleHTTPRequestHandler):
+ def log_message(self,*a):pass
+server=http.server.ThreadingHTTPServer(('127.0.0.1',0),functools.partial(Quiet,directory=str(ROOT)));threading.Thread(target=server.serve_forever,daemon=True).start();base=f'http://127.0.0.1:{server.server_port}'
+try:
+ with sync_playwright()as pw:
+  browser=pw.chromium.launch(executable_path='/usr/bin/chromium',args=['--no-sandbox']);page=browser.new_page();errors=[];page.on('pageerror',lambda e:errors.append(str(e)))
+  def route(r):
+   if not r.request.url.startswith(base):r.abort()
+   elif '/app.js?'in r.request.url:r.fulfill(status=200,content_type='text/javascript',body='')
+   elif '/config.js'in r.request.url:r.fulfill(status=200,content_type='text/javascript',body='window.THINK_CP_CONFIG={};')
+   else:r.continue_()
+  page.route('**/*',route);page.goto(base+'/index.html#admin-section',wait_until='networkidle')
+  page.evaluate('''async()=>{window.actor={id:'00000000-0000-0000-0000-000000000001'};window.calls=[];window.row={id:'stable',number:1,revision:1,title:'Original',source:'Codeforces',ref:'1A',url:'https://codeforces.com/contest/1/problem/A',rating:800,ratingKind:'official',priority:true,tags:['math'],hints:['Original hint','Second','Third'],hintsEn:['Original hint','Second','Third'],level:'Practice'};window.saved=[];window.client={rpc:async(name,args)=>{calls.push(name);if(name==='is_admin')return{data:true};if(name==='get_admin_catalog')return{data:[row]};if(name==='admin_save_problem'){saved.push(args);row={...args.p_body,id:'stable',number:1,revision:2};return{data:row};}if(name==='get_problem_editorial'||name==='get_problem_statement')throw Error('Uninstalled RPC must not be called');return{data:[]};}};const{setupAdmin}=await import('./admin.js?v=49');window.ui=setupAdmin({client:()=>client,user:()=>actor,sources:()=>['Codeforces'],refreshCatalog:async()=>{}});ui.connected();}''')
+  page.wait_for_function('document.querySelector("#admin-choose").options.length===2');page.evaluate("ui.editProblem('stable')");page.locator('#admin-title').fill('Edited safely');assert page.locator('#admin-priority').is_disabled();assert page.locator('#admin-new').is_disabled();assert page.locator('#admin-import-file').is_disabled();assert page.locator('#admin-editorial-document').is_hidden();assert page.locator('#admin-statement-document').is_hidden();page.locator('#admin-save').click();page.wait_for_function('saved.length===1');assert page.evaluate('saved[0].p_body.priority')is True;assert page.evaluate('"priorityLevel" in saved[0].p_body')is False;assert page.evaluate('row.id')=='stable';assert page.evaluate('row.hints[0]')=='Original hint';assert page.evaluate('calls.some(x=>x.startsWith("get_problem_"))')is False
+  for theme,width in [('light',375),('dark',1200)]:
+   page.set_viewport_size({'width':width,'height':950});page.evaluate('(t)=>document.documentElement.dataset.theme=t',theme);assert page.locator('#admin-form').evaluate('e=>e.scrollWidth<=e.clientWidth')
+  assert not errors,errors;browser.close()
+finally:server.shutdown()
+report={'status':'passed','scope':'Local browser with installed-031-shaped mock RPC;actual SQL contract checked separately in Node','checks':['existing edit works without uninstalled RPCs','stable ID/legacy priority/hints preserved','new priority/rich content/bulk writes gated','mobile light/desktop dark no overflow','no browser errors']};(ROOT/'audit/PART04-BACKEND-COMPATIBILITY-BROWSER.json').write_text(json.dumps(report,indent=2)+'\n');print(json.dumps(report))

diff --git a/tests/browser/problem-editorial-ui.py b/tests/browser/problem-editorial-ui.py
@@ -29,15 +29,15 @@ try:
    page.locator('#problem-back').click()
   checks.append('actual app: lazy body RPC only on open; rich code, language fallback, status preserves reader, mobile/light and desktop/dark')
   page.get_by_role('button',name='Slow editorial',exact=False).first.click();page.locator('#problem-editorial summary').click();page.wait_for_function('typeof resolveSlow==="function"')
-  page.locator('#problem-back').click();page.get_by_role('button',name='Missing editorial',exact=False).first.click();page.locator('#problem-editorial summary').click();page.evaluate('resolveSlow()');page.wait_for_timeout(100)
-  assert 'бэлтгэгдэж' in page.locator('#problem-editorial').inner_text();assert page.locator('#problem-editorial article section').count()==0
-  checks.append('stale lazy response cannot populate another problem; missing High editorial stated honestly');page.close()
+  page.locator('#problem-back').click();page.get_by_role('button',name='Missing editorial',exact=False).first.click();page.evaluate('resolveSlow()');page.wait_for_timeout(100)
+  assert page.locator('#problem-editorial').is_hidden();assert page.locator('#problem-editorial article section').count()==0
+  checks.append('stale lazy response cannot populate another problem; absent optional editorial has no placeholder');page.close()
   # Isolate the real admin component; the application itself is blocked to avoid duplicate handlers.
   page=browser.new_page(viewport={'width':1200,'height':950});page.on('pageerror',lambda e:errors.append(str(e)))
   def admin_route(r):
    if not r.request.url.startswith(base):r.abort()
    elif '/app.js?'in r.request.url:r.fulfill(status=200,content_type='text/javascript',body='')
-   elif '/config.js'in r.request.url:r.fulfill(status=200,content_type='text/javascript',body='window.THINK_CP_CONFIG={};')
+   elif '/config.js'in r.request.url:r.fulfill(status=200,content_type='text/javascript',body='window.THINK_CP_CONFIG={problemBackendVersion:34};')
    else:r.continue_()
   page.route('**/*',admin_route);page.goto(base+'/index.html#admin-section',wait_until='networkidle')
   page.evaluate('''async({p,doc})=>{window.actor={id:'00000000-0000-0000-0000-000000000001'};window.rows=[p];window.documentBody=doc;window.saved=[];window.allowed=true;window.backendAvailable=true;window.client={rpc:async(name,args)=>{if(name==='is_admin')return{data:allowed};if(name==='get_admin_catalog')return{data:rows};if(name==='get_problem_editorial')return backendAvailable?{data:{body:documentBody,problemRevision:rows[0].revision}}:{error:{code:'PGRST202',message:'not installed'}};if(name==='admin_save_problem'){saved.push(args);documentBody=args.p_body.editorial;rows=[{...p,...args.p_body,editorial:undefined,hasEditorial:!!documentBody,revision:p.revision+saved.length}];return{data:{...rows[0],editorial:documentBody}};}return{data:[]};}};const{setupAdmin}=await import('./admin.js?v=48');window.adminUI=setupAdmin({client:()=>client,user:()=>actor,sources:()=>['AtCoder'],progress:()=>({}),refreshCatalog:async()=>{}});adminUI.connected();}''',{'p':p,'doc':doc})

diff --git a/tests/browser/problem-statement.py b/tests/browser/problem-statement.py
@@ -18,7 +18,7 @@ try:
    url=r.request.url
    if 'cdn.jsdelivr.net/npm/@supabase/supabase-js@2/+esm'in url:r.fulfill(status=200,content_type='text/javascript',body='export function createClient(){return window.testClient;}')
    elif not url.startswith(base):r.abort()
-   elif '/config.js'in url:r.fulfill(status=200,content_type='text/javascript',body='window.THINK_CP_CONFIG={supabaseUrl:"https://fixture.invalid",supabaseKey:"public-test-fixture"};')
+   elif '/config.js'in url:r.fulfill(status=200,content_type='text/javascript',body='window.THINK_CP_CONFIG={supabaseUrl:"https://fixture.invalid",supabaseKey:"public-test-fixture",problemBackendVersion:34};')
    else:r.continue_()
   page.route('**/*',route);page.goto(base+'/index.html#library',wait_until='networkidle');page.wait_for_function("document.querySelector('#problems .open:not(:disabled)')");assert page.evaluate("calls.filter(c=>c.name==='get_problem_statement').length")==0
   for i,entry in enumerate(entries,1):

diff --git a/audit/PART04-PR20-READINESS.md b/audit/PART04-PR20-READINESS.md
@@ -1,0 +1,13 @@
+# PR20 code readiness and remaining-work split
+
+PR20 contains completed frontend work and the 245 curated metadata records. It is a code review/release unit compatible with the actual after-031 backend; merging it does not install SQL, import the new bank, or publish optional content. The user merges. No auto-merge/deploy is requested.
+
+Latest main was fetched and merged without rewriting history (main b8c2eb2). New public `problemBackendVersion` declaration defaults strictly to 31; it is a deployment capability flag, never an authorization source. Do not set it to 32/33/34 until corresponding separately approved migrations are installed and verified.
+
+At default31, existing problem basic edits preserve legacy priority/IDs/hints and use existing RPCs without probing missing editorial/statement RPCs. Unsafe new writes are disabled: three-tier priority controls, new problem creation, rich-content editing and bulk imports. Existing advanced rows fail closed rather than dropping metadata. Readers do not display placeholders for problems lacking optional content. Existing rich content remains preserved in previews/branches; it is not silently discarded or published.
+
+All 245 selections are code artifacts, not live imported rows. Frozen748 metadata is unchanged. The already prepared 032–034 SQL files remain inert review artifacts; no automatic migration runner exists. Their production installation, data dry-run/import/URL actions, authenticated live verification and the new admin-profile feature belong to the separate remaining-work PR. Final archive receipts describe the earlier source checkpoint; later merge-readiness commits are preserved in Git and are not falsely claimed inside that ZIP.
+
+Validation: full Node80/80, actual after-031 SQL legacy edit/CAS test, real browser default31 basic-edit/missing-RPC gating, rich-content34 mock regression, auth-link flows and final bank/problem-page checks. See associated audit JSON reports. No production account/content mutations or remote CI success is implied.
+
+Remaining-work field scope is surname, first name, username and profile picture only. No school/email/password/auth/role/progress edits. Package4 remains incomplete until remaining PR scope and applicable installation/live/delivery gates are truthfully resolved; package2 has not started.

diff --git a/NEXT-STEPS.md b/NEXT-STEPS.md
@@ -1,3 +1,7 @@
+# PR20 compatibility and delivery split
+
+PR20 is being made code-merge-ready against installedafter031:defaultproblemBackendVersion31 retains existing basic edits and gates newer writes,without missingRPCcalls or silentpriority/provenanceloss.245selections complete butnotimported;no SQLexecuted. See `audit/PART04-PR20-READINESS.md`. New separate remaining-workPR carries admin surname/first_name/username/profilepicture plus applicable production/install/live gates. School/email/password/auth/roles/progress excluded. Existing optional documents preserved,no newauthoring. No package2transition.
+
 # Verified local recovery archives
 
 Code archive captures cbbc6ee,245selected records,completed optional content,all five local branches and retained source evidence.981payload files;42,788,842bytes;SHA256 e56969fd36dc6d9d045b8dc761efecdde14d1a11431a601e7bd63b8642dde763. Manifest/hash/CRC/path checks,credential-pattern scan,bundle verification and offline clone/fsck passed. Separate private live catalog/schema recovery is local/untracked,not part of code ZIP,not fullPITR/media backup. See `audit/PART04-RECOVERY-ARCHIVES.json`. Neither archive uploaded/published. Current receipt commit is metadata-only beyond the archived source commit. Package4stillincomplete;no production writes or package2transition.
